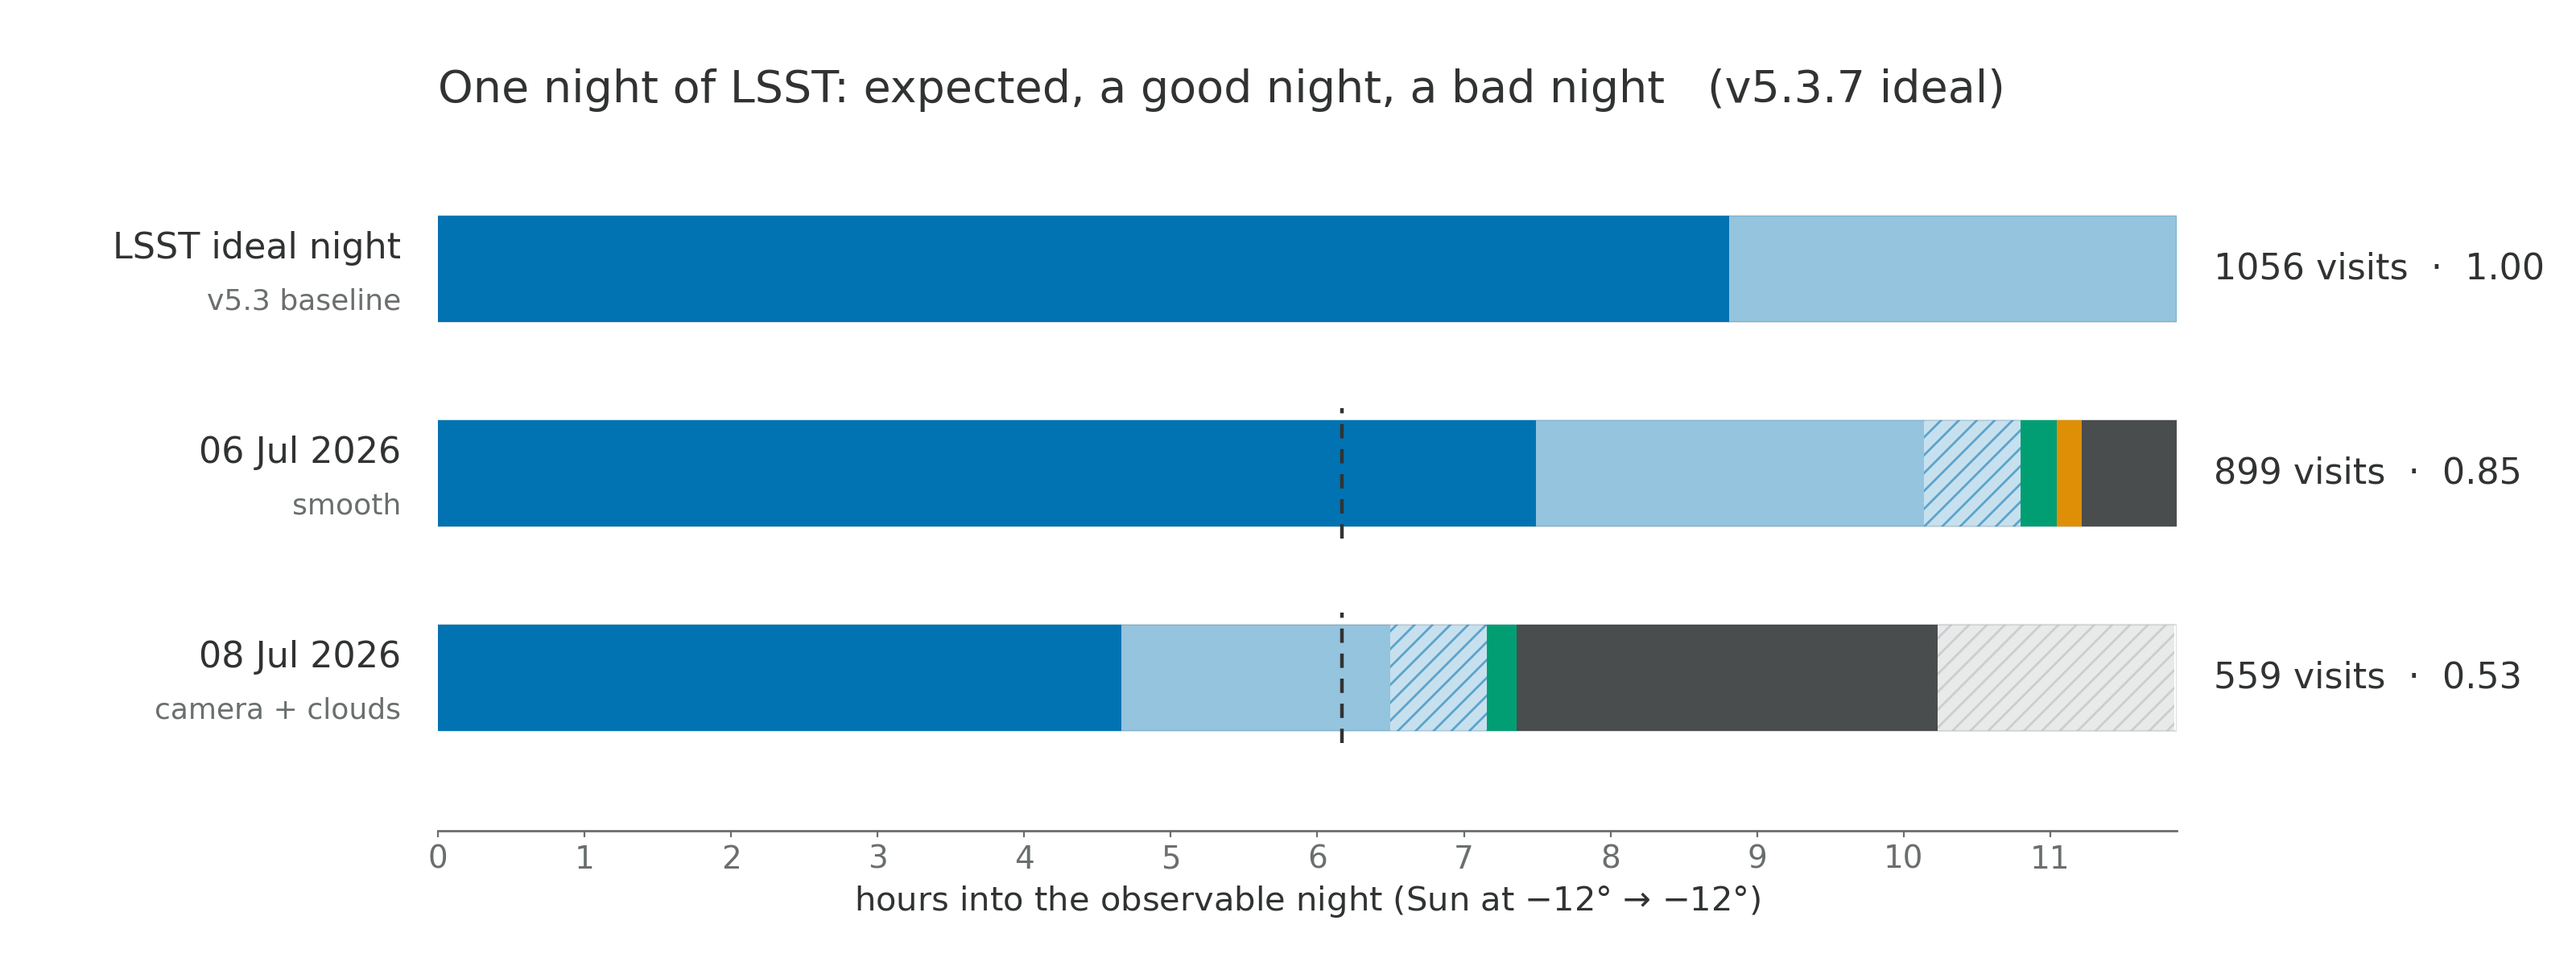
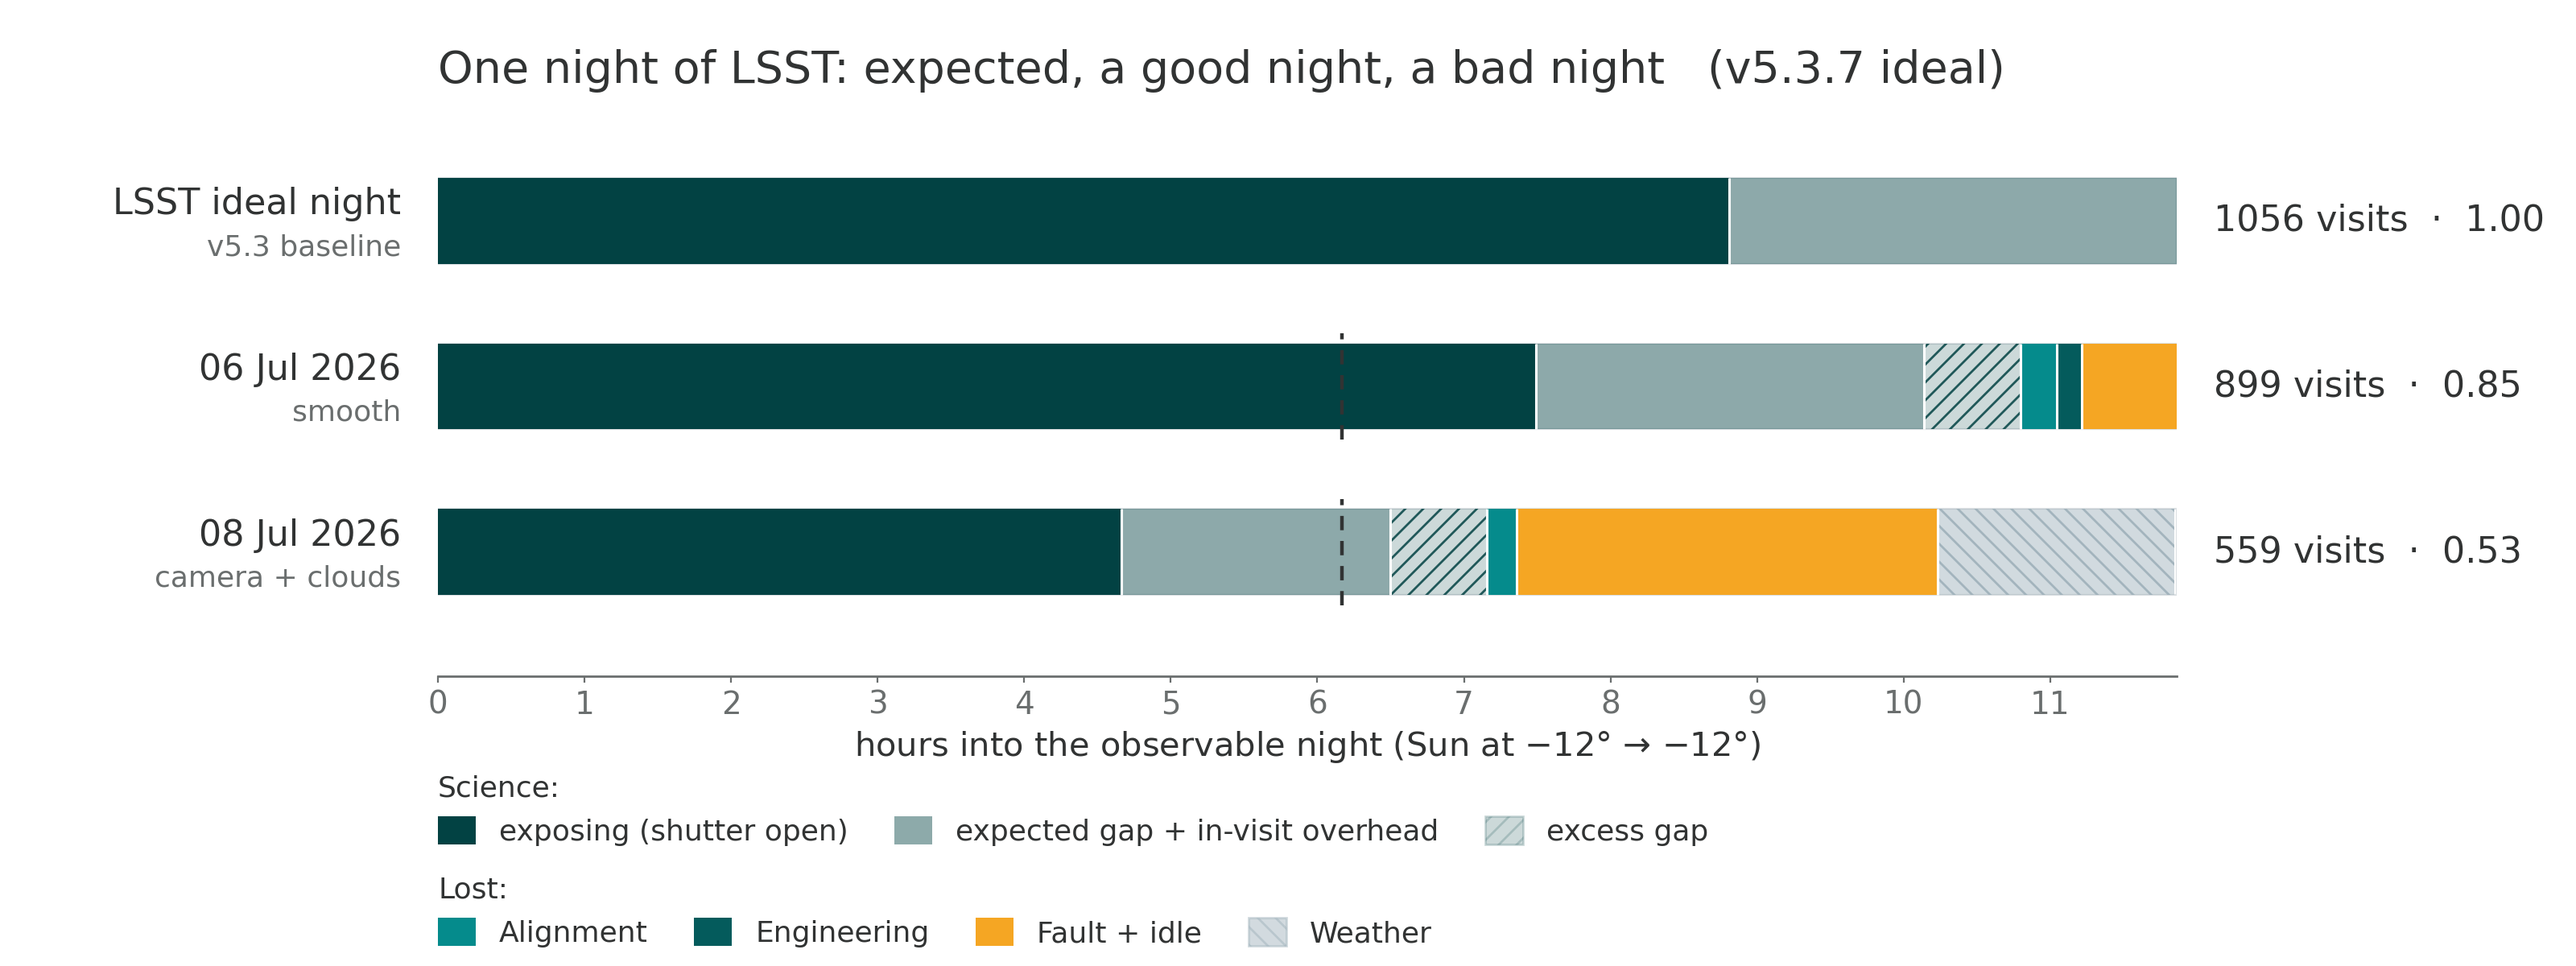
night_budget: B12 takes the deck palette and gains a two-row legend
Bruno, 2026-11-02: use the slide colours and add legends.

Palette is now the deck's SLIDE2_COLORS, the same hexes slide-4 B1 uses (read
off slide 2's night-definition strip): Science #024243, Engineering #045B5C,
Alignment #058B8C, Fault + idle #F5A623, Weather #9BAEB8. Copied into this
folder rather than imported from simonyi_time_loss so night_budget stays
extractable; rubin_palette is untouched and reverting is one line
(PALETTE = RUBIN_COLORS).

This inherits slide-4 B1's known contrast failure: Science against Engineering
is dE 10.9, under the floor of 15, since they are two steps of one teal ramp.
Mitigated with white hairline separators at every block join, and by keeping
the Science subdivisions as one hue at three strengths with opposed hatch
directions on the two hatched blocks. Every other pair clears the floor
(Science vs Alignment 30.5, Engineering vs Alignment 19.6, Science vs the
expected-gap tint 43.0, Fault vs Weather 82.9). Recorded in README §5.

Legend is two rows under the x axis, "Science:" then "Lost:". Swatches and
blocks both come from the single STYLE dict so they cannot drift apart.

Generated with AI

diff --git a/night_budget/python/make_good_bad_night_figure.py b/night_budget/python/make_good_bad_night_figure.py
@@ -2,8 +2,9 @@
 
 Three horizontal bars of equal length - the -12 deg observable night - stacked
 top to bottom: the LSST ideal night, a real good night and a real bad night.
-Each bar is the same block form as slide 3, in ROSP-24 precedence order and in
-``rubin_palette.CATEGORY_COLORS``, so the three read as the same accounting:
+Each bar is the same block form as slide 3, in ROSP-24 precedence order and in the
+deck's own ``SLIDE2_COLORS`` (as slide-4 B1; see ``PALETTE`` below and README §5),
+so the three read as the same accounting:
 
 * **Science**, subdivided: exposing (solid), expected gap + in-visit overhead
   (a lighter tint), excess gap (hatched);
@@ -15,6 +16,9 @@ night had met the RTN-093 survey-start criterion, survey speed > 0.7, i.e. at
 
 Inputs are this folder's own ``data/night_budget_<min>_<max>.csv``, written by
 ``night_budget.py``. No cross-folder imports.
+
+The legend sits in two rows under the x axis: ``Science:`` with the three
+subdivisions, then ``Lost:`` with the categories that are not Science.
 
 Outputs ``../figures/good_bad_night_<good>_<bad>.png`` and ``_white.png``, 16:6.
 
@@ -55,17 +59,65 @@ BAR_NOTE = {GOOD_DAY_OBS: "smooth", BAD_DAY_OBS: "camera + clouds"}
 SURVEY_SPEED_CRITERION = 0.7
 VISIT_S = 30.0
 
+# TEMPORARY: slide-2 colours, the same deliberate palette violation as slide-4 B1
+# (``SLIDE2_COLORS`` in ``simonyi_time_loss/python/make_latam_figures.py``, see that
+# README §3b.1). Copied rather than imported so this folder stays extractable; if the
+# deck palette changes, change it in both places. Bruno asked for the deck colours on
+# 2026-11-02 so B12 matches slides 4 and 5. Switching back to the Rubin palette is one
+# line: use ``RUBIN_COLORS`` instead of ``SLIDE2_COLORS`` below.
+SLIDE2_COLORS = {
+    "Science": "#024243",
+    "Engineering": "#045B5C",
+    "Alignment": "#058B8C",
+    "Fault + idle": "#F5A623",
+    "Planned maintenance": "#546E7A",
+    "Weather": "#9BAEB8",
+}
+#: The canonical Rubin palette, kept so the violation can be reverted in one line.
+RUBIN_COLORS = {
+    "Science": rp.CATEGORY_COLORS["survey"],
+    "Engineering": rp.CATEGORY_COLORS["engineering"],
+    "Alignment": rp.CATEGORY_COLORS["focus"],
+    "Fault + idle": rp.CATEGORY_COLORS["fault_idle"],
+    "Planned maintenance": rp.NEUTRALS["muted"],
+    "Weather": rp.CATEGORY_COLORS["weather"],
+}
+
+PALETTE = SLIDE2_COLORS
+
 C = {
-    "survey": rp.CATEGORY_COLORS["survey"],
-    "focus": rp.CATEGORY_COLORS["focus"],
-    "engineering": rp.CATEGORY_COLORS["engineering"],
-    "fault_idle": rp.CATEGORY_COLORS["fault_idle"],
-    "weather": rp.CATEGORY_COLORS["weather"],
+    "survey": PALETTE["Science"],
+    "focus": PALETTE["Alignment"],
+    "engineering": PALETTE["Engineering"],
+    "fault_idle": PALETTE["Fault + idle"],
+    "weather": PALETTE["Weather"],
     "ink": rp.NEUTRALS["ink"],
     "ink2": rp.NEUTRALS["ink_secondary"],
     "muted": rp.NEUTRALS["muted"],
     "grid": rp.NEUTRALS["grid"],
 }
+
+#: Legend rows: the Science subdivisions, then the categories that are not Science.
+#: ``(style, label)``; drawn in two rows under the x axis, in stack order.
+LEGEND_ROWS = (
+    (
+        "Science",
+        [
+            ("survey", "exposing (shutter open)"),
+            ("survey_light", "expected gap + in-visit overhead"),
+            ("survey_hatch", "excess gap"),
+        ],
+    ),
+    (
+        "Lost",
+        [
+            ("focus", "Alignment"),
+            ("engineering", "Engineering"),
+            ("fault_idle", "Fault + idle"),
+            ("weather_hatch", "Weather"),
+        ],
+    ),
+)
 
 RC = {
     "figure.figsize": (16, 6),
@@ -132,26 +184,38 @@ def real_bar(row: pd.Series) -> list[tuple[str, float, str]]:
     return blocks
 
 
-def _draw_block(ax, x: float, y: float, w: float, style: str) -> None:
-    """One block: solid, a lighter tint, or a hatch over a tint."""
+#: One spec per block style: ``(colour, alpha, hatch)``. The blocks and the legend
+#: swatches are both drawn from this, so they cannot drift apart. The three Science
+#: styles are one hue at three strengths, as the slide-3 form asks; Weather keeps the
+#: slide-4 B1 hatch direction so the two figures read the same way.
+STYLE = {
+    "survey": (C["survey"], 1.00, None),
+    "survey_light": (C["survey"], 0.45, None),
+    "survey_hatch": (C["survey"], 0.20, "///"),
+    "focus": (C["focus"], 1.00, None),
+    "engineering": (C["engineering"], 1.00, None),
+    "fault_idle": (C["fault_idle"], 1.00, None),
+    "weather_hatch": (C["weather"], 0.45, "\\\\\\"),
+}
+
+
+def _draw_block(ax, x: float, y: float, w: float, style: str, zorder: float = 1.0) -> None:
+    """One block: a solid colour, a lighter tint, or a hatch over a tint."""
     if w <= 0:
         return
-    base = {
-        "survey": C["survey"],
-        "survey_light": C["survey"],
-        "survey_hatch": C["survey"],
-        "focus": C["focus"],
-        "engineering": C["engineering"],
-        "fault_idle": C["fault_idle"],
-        "weather_hatch": C["weather"],
-    }[style]
-    alpha = {"survey_light": 0.42, "survey_hatch": 0.22, "weather_hatch": 0.30}.get(style, 1.0)
+    base, alpha, hatch = STYLE[style]
     ax.add_patch(
         mpl.patches.Rectangle(
-            (x, y - BAR_H / 2), w, BAR_H, facecolor=base, alpha=alpha, edgecolor="none", zorder=1
+            (x, y - BAR_H / 2),
+            w,
+            BAR_H,
+            facecolor=base,
+            alpha=alpha,
+            edgecolor="none",
+            zorder=zorder,
         )
     )
-    if style.endswith("_hatch"):
+    if hatch:
         ax.add_patch(
             mpl.patches.Rectangle(
                 (x, y - BAR_H / 2),
@@ -159,12 +223,20 @@ def _draw_block(ax, x: float, y: float, w: float, style: str) -> None:
                 BAR_H,
                 facecolor="none",
                 edgecolor=base,
-                hatch="///",
+                hatch=hatch,
                 linewidth=0,
-                alpha=0.55,
-                zorder=1.1,
+                alpha=0.85,
+                zorder=zorder + 0.1,
             )
         )
+
+
+def _legend_handles(style: str, label: str) -> mpl.patches.Patch:
+    """A legend swatch drawn from the same :data:`STYLE` spec as the blocks."""
+    base, alpha, hatch = STYLE[style]
+    return mpl.patches.Patch(
+        facecolor=base, alpha=alpha, hatch=hatch, edgecolor=base if hatch else "none", label=label
+    )
 
 
 def make_figure(budget: pd.DataFrame, good: int, bad: int, baseline: str) -> Path:
@@ -198,9 +270,25 @@ def make_figure(budget: pd.DataFrame, good: int, bad: int, baseline: str) -> Pat
                 )
             )
             x = 0.0
+            edges = []
             for _name, w, style in blocks:
                 _draw_block(ax, x, y, w, style)
                 x += w
+                if w > 0:
+                    edges.append(x)
+            # Hairline separators at the joins. The deck palette puts Engineering
+            # (#045B5C) next to exposing (#024243), which are two steps of one teal
+            # ramp and merge where they touch; a white rule keeps every block
+            # countable without adding a sixth hue.
+            for edge in edges[:-1]:
+                ax.plot(
+                    [edge, edge],
+                    [y - BAR_H / 2, y + BAR_H / 2],
+                    color="white",
+                    linewidth=1.1,
+                    solid_capstyle="butt",
+                    zorder=2,
+                )
 
             # left-hand labels: date, then one word
             ax.text(-0.25, y + 0.10, label, ha="right", va="center", fontsize=16, color=C["ink"])
@@ -245,7 +333,31 @@ def make_figure(budget: pd.DataFrame, good: int, bad: int, baseline: str) -> Pat
 
         # wide side margins: the bar labels and the "N visits · ratio" labels
         # are drawn in data coordinates outside the x limits
-        fig.subplots_adjust(left=0.17, right=0.845, bottom=0.14, top=0.88)
+        # Two legend rows under the x axis: the Science subdivisions, then the
+        # categories that are not Science. Separate legends so each row can carry
+        # its own "Science:" / "Lost:" title; the second is added as an artist
+        # because an Axes holds only one legend.
+        for i, (title, entries) in enumerate(LEGEND_ROWS):
+            leg = ax.legend(
+                handles=[_legend_handles(style, label) for style, label in entries],
+                title=f"{title}:",
+                loc="upper left",
+                bbox_to_anchor=(0.0, -0.17 - 0.175 * i),
+                ncol=len(entries),
+                frameon=False,
+                fontsize=13,
+                handlelength=1.3,
+                handleheight=1.1,
+                columnspacing=1.6,
+                borderpad=0.0,
+                borderaxespad=0.0,
+            )
+            leg.set_title(f"{title}:", prop={"size": 13})
+            leg._legend_box.align = "left"
+            if i < len(LEGEND_ROWS) - 1:
+                ax.add_artist(leg)
+
+        fig.subplots_adjust(left=0.17, right=0.845, bottom=0.30, top=0.90)
         FIG.mkdir(exist_ok=True)
         stem = FIG / f"good_bad_night_{good}_{bad}"
         fig.savefig(f"{stem}.png", dpi=200, transparent=True)

diff --git a/night_budget/README.md b/night_budget/README.md
@@ -128,6 +128,34 @@ the cuts but with a high ratio: 20260705 (0.791, 0.91 h engineering), 20260711 (
 Ideal night: 11.86 h, OSF 0.7424 (6 Jul's season), exposing **8.81 h**, 1056 visits.
 RTN-093 tick at 0.7 × that = **6.17 h** of exposing.
 
+### Colours and legend — the deck palette, a deliberate palette violation
+
+Bruno asked on 2026-11-02 for the slide colours rather than the Rubin palette, so B12
+uses the same `SLIDE2_COLORS` hexes as slide-4 B1 — Science `#024243`, Engineering
+`#045B5C`, Alignment `#058B8C`, Fault + idle `#F5A623`, Weather `#9BAEB8` — read off the
+night-definition strip on slide 2 of the deck. The constant is **copied** into
+`make_good_bad_night_figure.py`, not imported from `simonyi_time_loss`, so this folder
+stays extractable; if the deck palette changes it must change in both places.
+`rubin_palette.CATEGORY_COLORS` is untouched, and reverting is one line: set
+`PALETTE = RUBIN_COLORS`.
+
+This **fails the normal-vision contrast floor** in the same way slide-4 B1 does: Science
+`#024243` against Engineering `#045B5C` is ΔE **10.9**, under the floor of 15, because
+they are two steps of one teal ramp. Two mitigations, both in `make_figure()`:
+
+- **white hairline separators** at every block join, so each block stays countable
+  without introducing a sixth hue;
+- the Science subdivisions are **one hue at three strengths** (solid / 45 % tint /
+  20 % tint + `///` hatch), and the two hatched blocks lean opposite ways — excess gap
+  `///`, Weather `\\\` — as on slide-4 B1.
+
+Every other pair clears the floor comfortably (Science vs Alignment ΔE 30.5, Engineering
+vs Alignment 19.6, Science vs the expected-gap tint 43.0, Fault vs Weather 82.9).
+
+The legend is **two rows under the x axis**: `Science:` with the three subdivisions, then
+`Lost:` with Alignment, Engineering, Fault + idle and Weather. Swatches and blocks are
+both drawn from the single `STYLE` dict, so they cannot drift apart.
+
 | | ideal | 6 Jul 2026 (good) | 8 Jul 2026 (bad) |
 |---|---|---|---|
 | night (−12°) | 11.86 h | 11.86 h | 11.85 h |
